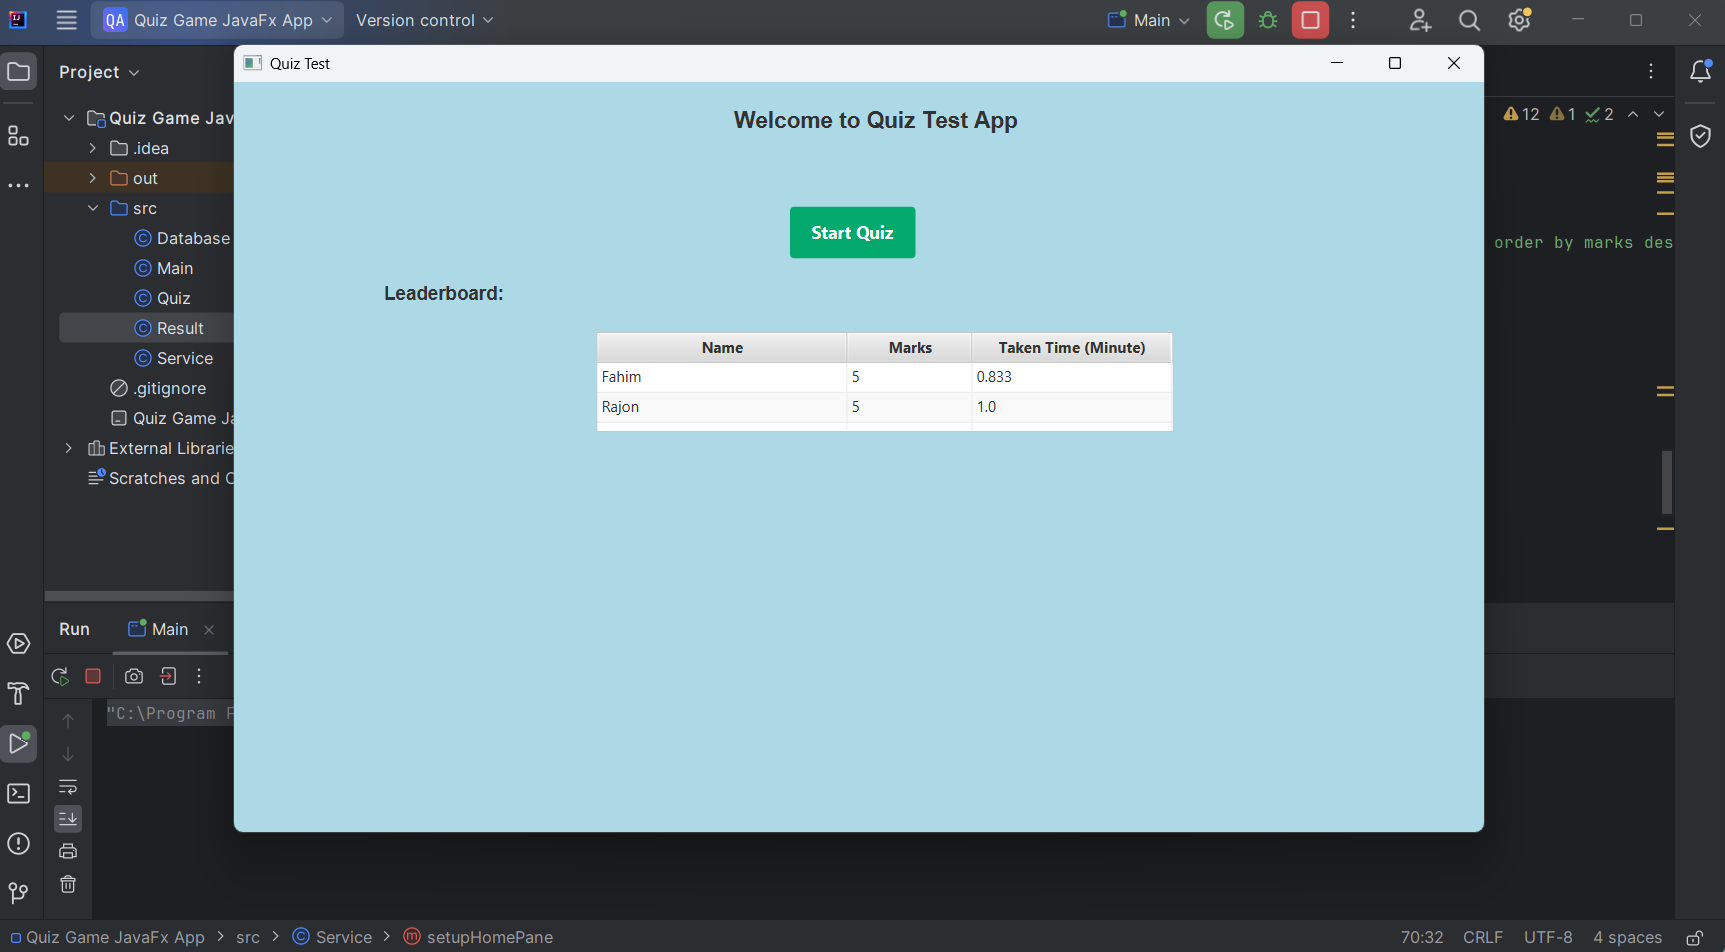
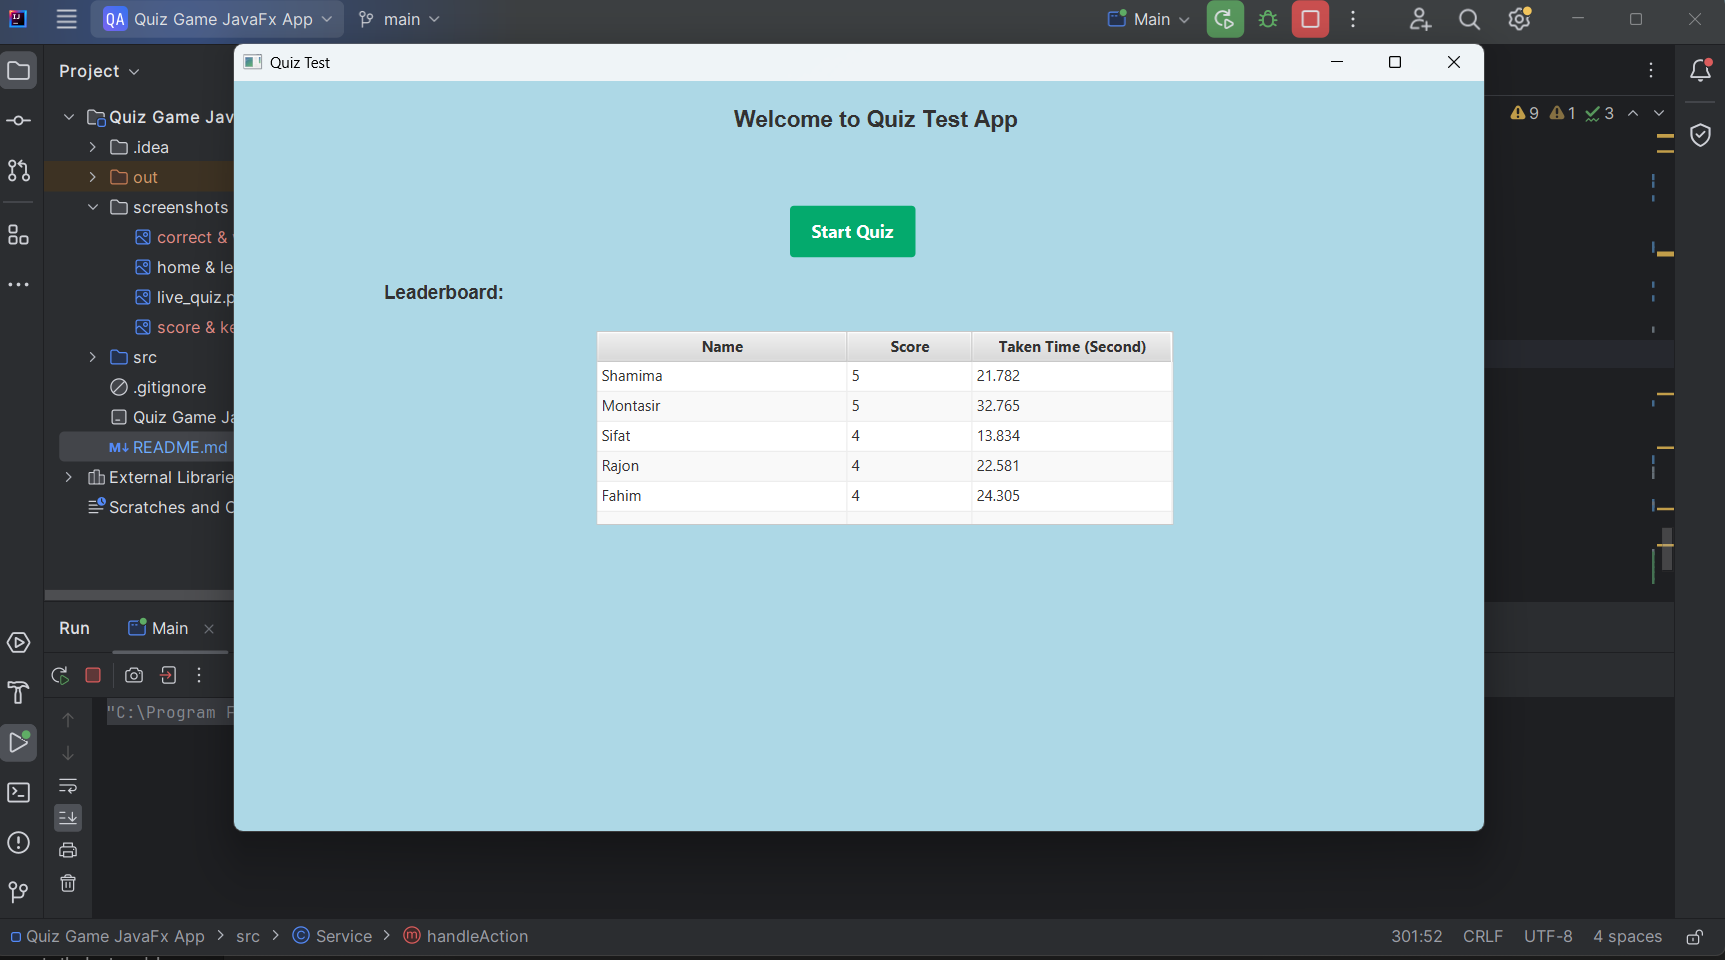
improved user experience

diff --git a/src/Service.java b/src/Service.java
@@ -26,17 +26,17 @@ public class Service extends Application {
     Button quizStart;
     private Label timerLabel;
     private Timeline timeline;
-    private int timeRemaining = 90;
+    private int timeRemaining = 92; // 1.5 minutes++
     private List<Quiz> questionList;
     private List<ToggleGroup> answerGroups;
-    private long startTime;
+    private long startTime, submitCount = 0;
     Button exitBtn, resetBtn, submitBtn;
 
     private AnchorPane homePane, quizPane;
     public void start(Stage primaryStage) {
         mainPane = new StackPane();
         setupHomePane();
-        setupQuizPane();
+        //setupQuizPane();
 
         mainPane.getChildren().add(homePane);
         primaryStage.setTitle("Quiz Test");
@@ -70,10 +70,10 @@ public class Service extends Application {
         TableColumn<Result, String> nameCol = new TableColumn<>("Name");
         nameCol.setCellValueFactory(new PropertyValueFactory<>("name"));
 
-        TableColumn<Result, Integer> marksCol = new TableColumn<>("Marks");
+        TableColumn<Result, Integer> marksCol = new TableColumn<>("Score");
         marksCol.setCellValueFactory(new PropertyValueFactory<>("marks"));
 
-        TableColumn<Result, Double> timeCol = new TableColumn<>("Taken Time (Minute)");
+        TableColumn<Result, Double> timeCol = new TableColumn<>("Taken Time (Second)");
         timeCol.setCellValueFactory(new PropertyValueFactory<>("takenTime"));
 
         tableView.getColumns().addAll(nameCol, marksCol, timeCol);
@@ -99,7 +99,7 @@ public class Service extends Application {
         quizPane.setPadding(new Insets(20));
 
         // Timer label
-        timerLabel = new Label("Time: 2:30");
+        timerLabel = new Label("Time: 1:30");
         timerLabel.setStyle("-fx-font-size: 16px; -fx-font-weight: bold;");
         AnchorPane.setTopAnchor(timerLabel, 10.0);
         AnchorPane.setRightAnchor(timerLabel, 20.0);
@@ -109,7 +109,7 @@ public class Service extends Application {
 
         answerGroups = new ArrayList<>();
 
-        // Load questions from DB
+        //fetch ques from db
         questionList = fetchRandomQuestions();
 
         for (Quiz q : questionList) {
@@ -132,7 +132,6 @@ public class Service extends Application {
             answerGroups.add(group);
         }
 
-        // Buttons
         exitBtn = new Button("Exit");
         resetBtn = new Button("Reset");
         submitBtn = new Button("Submit");
@@ -186,7 +185,7 @@ public class Service extends Application {
     }
 
     private void startTimer() {
-        timeRemaining = 90;
+        timeRemaining = 92;
         startTime = System.currentTimeMillis();
         timeline = new Timeline(new KeyFrame(Duration.seconds(1), e -> {
             timeRemaining--;
@@ -226,20 +225,19 @@ public class Service extends Application {
 
 
     private void submitQuiz() {
-        timeline.stop(); // stop timer
-
+        if(submitCount > 0) return;
+        timeline.stop();
+        submitCount++;
         int correct = 0;
         for (int i = 0; i < questionList.size(); i++) {
             ToggleGroup group = answerGroups.get(i);
             int correctAns = questionList.get(i).correctOption;
 
-            // Reset all radio buttons' styles first
             for (Toggle toggle : group.getToggles()) {
                 RadioButton rb = (RadioButton) toggle;
                 rb.setStyle("-fx-background-color: transparent; -fx-text-fill: black;");
             }
 
-            // Mark correct option as green text
             RadioButton correctBtn = (RadioButton) group.getToggles().get(correctAns - 1);
             correctBtn.setStyle("-fx-text-fill: green;");
 
@@ -259,14 +257,13 @@ public class Service extends Application {
                     correct++;
                 }
                 else{
-                    selectedBtn.setStyle("-fx-background-color: red; -fx-text-fill: white;");
+                    selectedBtn.setStyle("-fx-background-color: yellow; -fx-text-fill: red;");
                 }
-                // No red marking for wrong answers as per your request
             }
         }
     //selectedBtn.setStyle("-fx-background-color: red; -fx-text-fill: white;");
-        double totalTimeTaken = (System.currentTimeMillis() - startTime) / 1000.0;
-
+        double totalTimeTaken = ((System.currentTimeMillis() - startTime) / 1000.0);
+        double timeTakenMinute = Math.round(totalTimeTaken * 100.00) / 100.00;
         int finalCorrect = correct;
         Platform.runLater(() -> {
             TextInputDialog nameDialog = new TextInputDialog();
@@ -296,17 +293,29 @@ public class Service extends Application {
         }
     }
 
-
-
     private void handleAction(ActionEvent event){
         if(event.getSource() == quizStart){
+            mainPane.getChildren().clear();
+            if (timeline != null) timeline.stop();
+            setupQuizPane();
+            //mainPane.getChildren().add(quizPane);
             mainPane.getChildren().addAll(quizPane);
         }
         else if(event.getSource() == exitBtn){
+            mainPane.getChildren().clear();
+            if(timeline != null) timeline.stop();
+            loadLeaderBoard();
             mainPane.getChildren().addAll(homePane);
+            submitCount = 0;
+            timeRemaining = 92;
         }
         else if(event.getSource() == resetBtn){
+            mainPane.getChildren().clear();
+            if(timeline != null) timeline.stop();
+            loadLeaderBoard();
             mainPane.getChildren().addAll(homePane);
+            submitCount = 0;
+            timeRemaining = 92;
         }
     }
 

diff --git a/README.md b/README.md
@@ -1,7 +1,8 @@
 ### Quiz App
-#### A JavaFx Desktop Applications
+#### A JavaFx Desktop Application
 
 ### Features
 1. Leaderboard
 2. Random Questions for Each Quiz
-3. Auto Correct Answer & Individual Score
+3. Auto Correct & Wrong Answer Marked by Different Color & Individual Score
+4. Save Quiz Record for Each User
